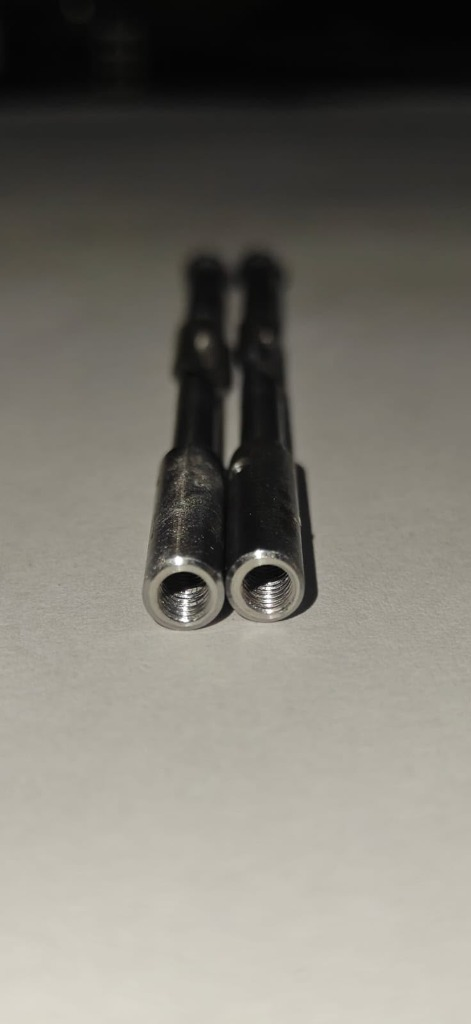
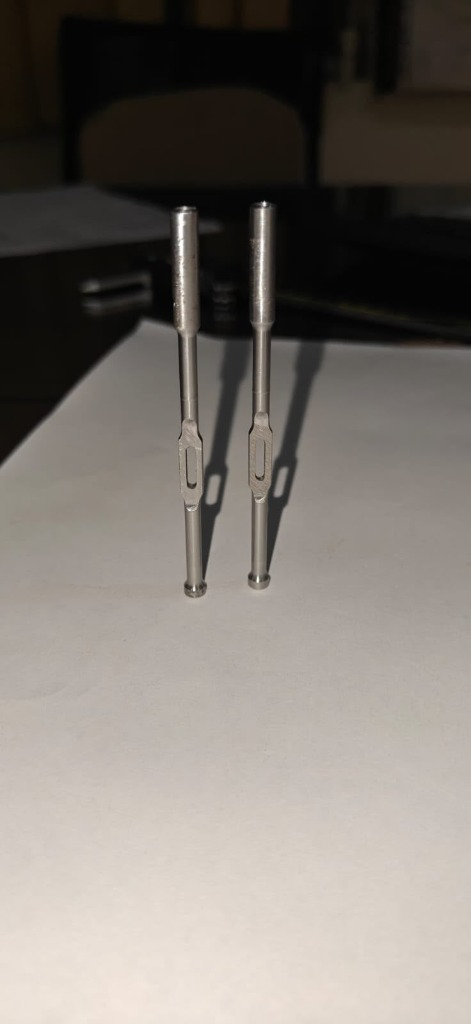
fix: replace duplicate defense photo with slotted actuator shafts and update Project 17 specifications

diff --git a/src/data/catalogueData.js b/src/data/catalogueData.js
@@ -821,21 +821,21 @@ export const featuredProducts = [
   {
     id: "prod-17",
     index: "17",
-    name: "Specialized Defense Linkage Rods & Internal Threaded Barrels",
+    name: "Precision Slotted Defense Linkage Shafts & Guide Actuator Rods",
     category: "Defense Sector Precision Components",
     categoryId: "turning-cnc-machines",
-    machine: "AMS J300LM & Riat Sons Grinder (350mm)",
-    filterGroups: ["defense", "turning", "tool-room"],
+    machine: "AMS J300LM & HAAS CNC VMC",
+    filterGroups: ["defense", "turning", "tool-room", "vmc"],
     image: "/images/defense-3.jpg",
-    tag: "Tactical Hardware",
-    whatWorkItDoes: "Precision cylindrical barrels and high-vibration linkage rods machined with micro-finished bores, precise metric internal threads, and corrosion-resistant passivation for defense applications.",
+    tag: "Slotted Defense Actuator",
+    whatWorkItDoes: "Precision CNC turned and milled slender defense actuator shafts featuring a central oblong slotted aperture, flanged locating head, and precision drilled internal bore for tactical mechanical linkages and military control mechanisms.",
     typicalWork: [
-      "Armored vehicle mechanical linkages",
-      "High-precision defense sensor housing pins",
-      "Weapon system trigger and pivot pins",
-      "Hardened tactical mounting hardware"
+      "Defense slotted actuator linkages",
+      "Tactical weapon trigger & sear linkage rods",
+      "Armored vehicle mechanical control shafts",
+      "High-fatigue slotted guide pins"
     ],
-    keySpecsNote: "Turned on AMS J300LM · Cylindrical sizing on Riat Sons grinder · Zero-defect defense inspection"
+    keySpecsNote: "Turned on AMS J300LM & slot milled on HAAS VMC · Central slotted aperture · Concentric flanged head"
   }
 ];
 
